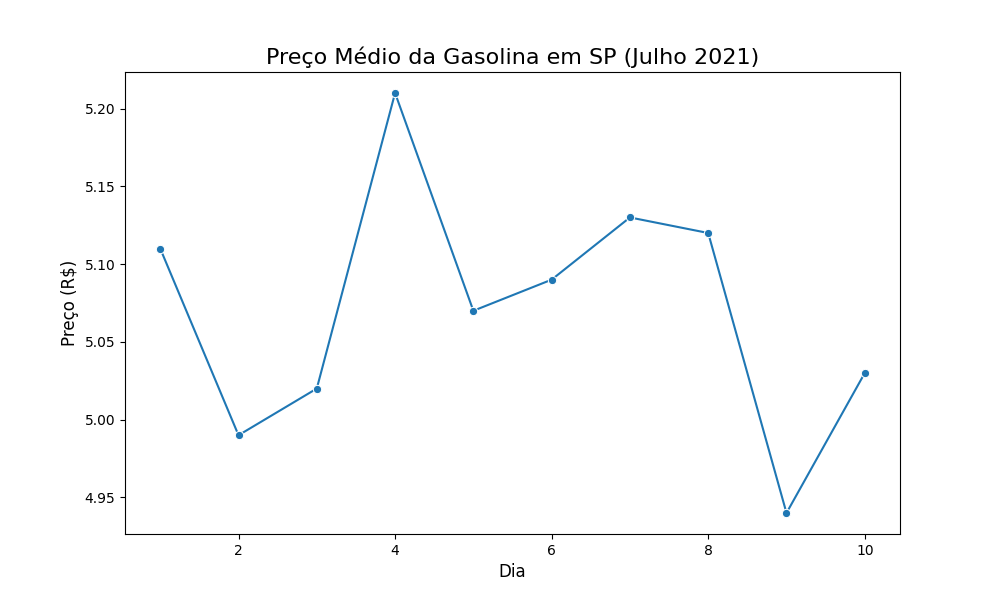
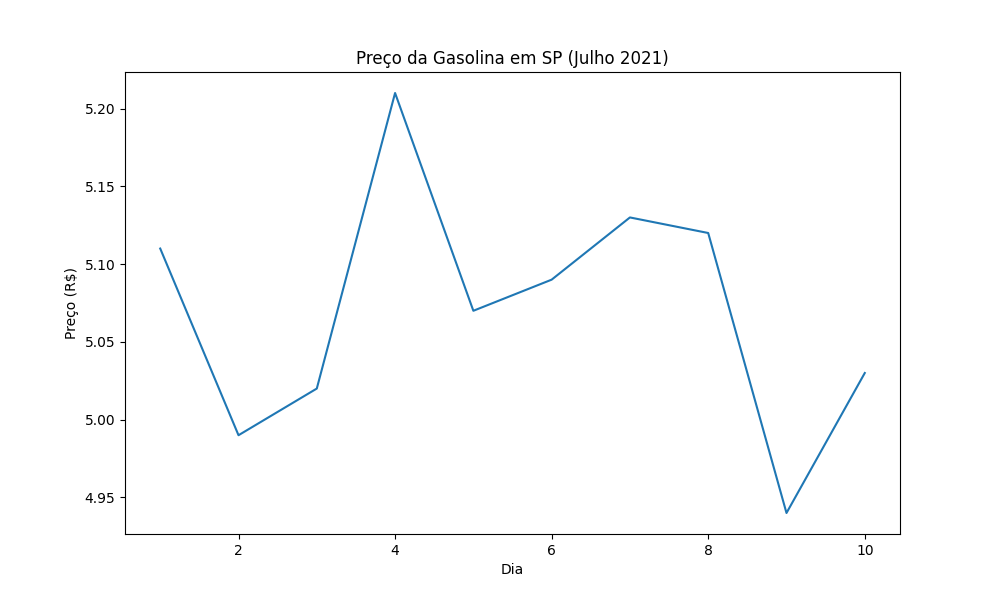
Adiciona dados e grafico da gasolina

Changed region(s): [[0.279, 0.06, 0.744, 0.12], [0.062, 0.45, 0.093, 0.57], [0.496, 0.93, 0.527, 0.96]]

diff --git a/gasolina.py b/gasolina.py
@@ -2,12 +2,16 @@ import pandas as pd
 import seaborn as sns
 import matplotlib.pyplot as plt
 
-df = pd.read_csv('gasolina.csv')
+# Ler os dados
+data = pd.read_csv('gasolina.csv')
 
+# Criar o gráfico
 plt.figure(figsize=(10, 6))
-grafico = sns.lineplot(data=df, x='dia', y='venda', marker='o')
-grafico.set_title('Preço Médio da Gasolina em SP (Julho 2021)', fontsize=16)
-grafico.set_xlabel('Dia', fontsize=12)
-grafico.set_ylabel('Preço (R$)', fontsize=12)
+sns.lineplot(data=data, x='dia', y='venda')
+plt.title('Preço da Gasolina em SP (Julho 2021)')
+plt.xlabel('Dia')
+plt.ylabel('Preço (R$)')
 
+# Salvar a imagem
 plt.savefig('gasolina.png')
+print("Gráfico salvo com sucesso!")
